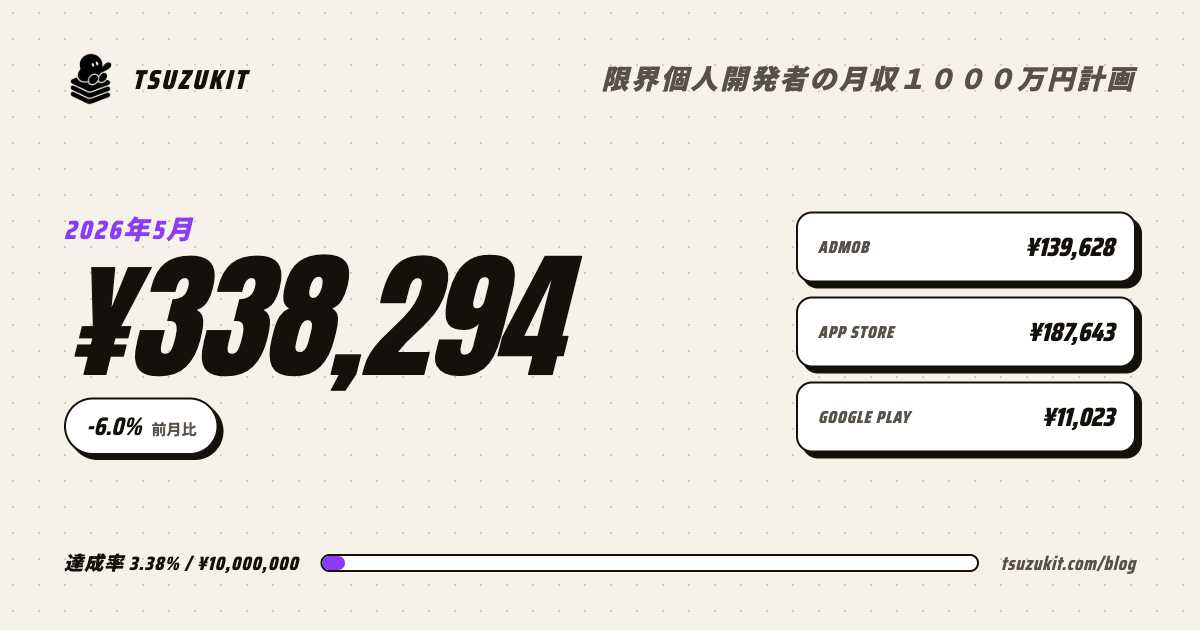
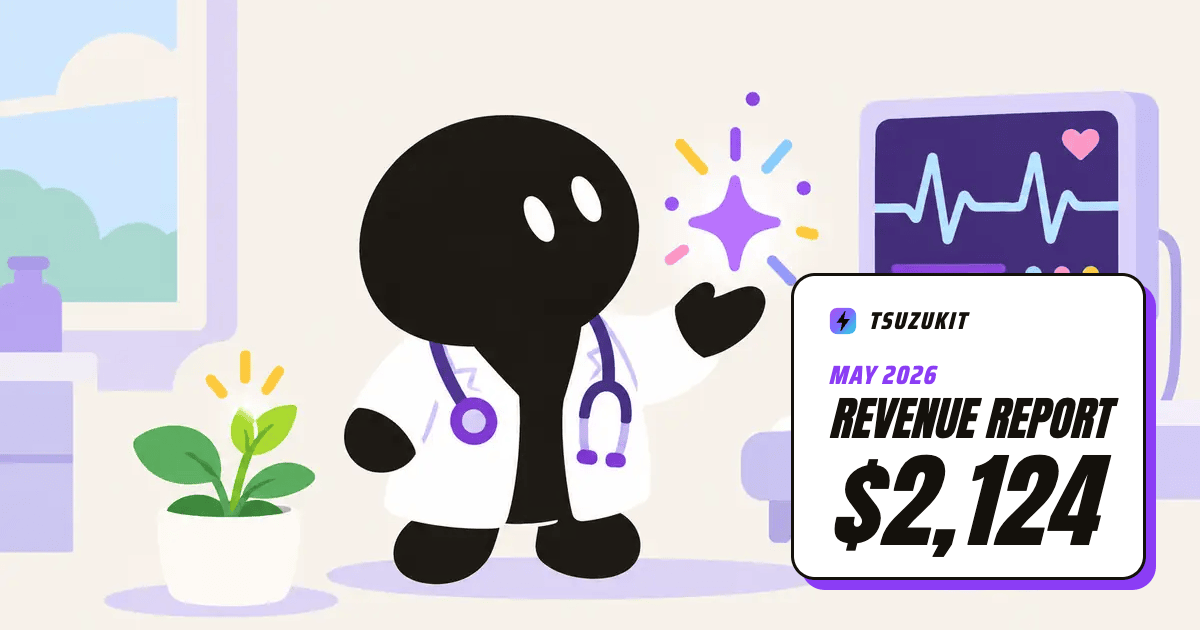
feat(blog): 収益公開のOGPをイラスト＋英語の号名＋ドルにした
- 各号のOGPを、その号のイラストを背景に「◯◯ 2026 Revenue Report」「TsuzuKit」「$合計」だけを載せた画像に作り直した（docs/income-report/ogp-illust.html）
- 前史編にも専用のOGPを付けた
- og:image に画像のハッシュを付けて、SNSのキャッシュに古い画像が残らないようにした
- 記事の「詳細データ」に #details のアンカーを付けた
- 月次レポートの手順書のOGPの作り方を書き換えた

diff --git a/docs/income-report/ogp-illust.html b/docs/income-report/ogp-illust.html
@@ -1,0 +1,56 @@
+<!DOCTYPE html>
+<html lang="en">
+<head>
+<meta charset="UTF-8">
+<title>OGP generator - Revenue Report</title>
+<!--
+  収益公開の各号のOGP画像（1200x630）。背景はその号のイラスト、上に載せるのは英語の号名・TsuzuKit・ドルの合計だけ。
+  OGPは言語で出し分けられないので、日英どちらのタイムラインでも読める英語と$にしている（2026-10-17 ユーザー指定）。
+  作り方は .claude/skills/monthly-income-report/SKILL.md の「OGP画像」。
+
+  パラメータ
+    bg      背景のイラスト（例: /assets/images/posts/income-report-2026-09.webp）
+    label   上の小さい行（例: September 2026）
+    title   号名（例: Revenue Report）
+    amount  ドルの合計（例: $2,958）
+    pos     札を置く角。bl（左下・既定）/ br（右下）/ tl（左上）/ tr（右上）。キャラに重ならない角を選ぶ
+-->
+<link rel="stylesheet" href="https://fonts.googleapis.com/css2?family=Anton&family=Saira+Condensed:wght@600;700;800&display=swap">
+<style>
+  :root { --ink: #14110c; --purple: #8b3df5; --cream: #f6f2ea; }
+  * { margin: 0; padding: 0; box-sizing: border-box; }
+  html, body { width: 1200px; height: 630px; overflow: hidden; background: var(--cream); }
+  .bg { position: absolute; inset: 0; width: 1200px; height: 630px; object-fit: cover; }
+  .card {
+    position: absolute; background: #fff; color: var(--ink);
+    border: 3px solid var(--ink); border-radius: 24px; box-shadow: 10px 10px 0 var(--purple);
+    padding: 26px 34px 24px;
+  }
+  .bl { left: 44px; bottom: 50px; } .br { right: 54px; bottom: 50px; }
+  .tl { left: 44px; top: 40px; } .tr { right: 54px; top: 40px; }
+  .brand { display: flex; align-items: center; gap: 10px; }
+  .brand img { width: 30px; height: 30px; }
+  .brand span { font-family: 'Saira Condensed', sans-serif; font-style: italic; font-weight: 800; font-size: 24px; letter-spacing: 0.08em; }
+  .label { margin-top: 14px; font-family: 'Saira Condensed', sans-serif; font-style: italic; font-weight: 800; font-size: 26px; letter-spacing: 0.06em; color: var(--purple); text-transform: uppercase; }
+  .title { font-family: 'Anton', sans-serif; font-style: italic; font-size: 46px; line-height: 1.05; text-transform: uppercase; }
+  .amount { margin-top: 6px; font-family: 'Anton', sans-serif; font-style: italic; font-size: 104px; line-height: 1; letter-spacing: 0.01em; }
+</style>
+</head>
+<body>
+<img class="bg" id="bg" alt="">
+<div class="card" id="card">
+  <div class="brand"><img src="/assets/images/logo.svg" alt=""><span>TSUZUKIT</span></div>
+  <div class="label" id="label"></div>
+  <div class="title" id="title"></div>
+  <div class="amount" id="amount"></div>
+</div>
+<script>
+  const q = new URLSearchParams(location.search);
+  document.getElementById('bg').src = q.get('bg') || '';
+  document.getElementById('label').textContent = q.get('label') || '';
+  document.getElementById('title').textContent = q.get('title') || 'Revenue Report';
+  document.getElementById('amount').textContent = q.get('amount') || '';
+  document.getElementById('card').classList.add(q.get('pos') || 'bl');
+</script>
+</body>
+</html>

diff --git a/blog/posts/income-report-2026-08.html b/blog/posts/income-report-2026-08.html
@@ -15,14 +15,14 @@
     <meta property="og:description" content="2026年8月の収益は494,888円。7月に売上ゼロだったあなたレシートが9万円を超え、うんちくんの新規ダウンロードは3割減った。">
     <meta property="og:type" content="article">
     <meta property="og:url" content="https://tsuzukit.com/blog/posts/income-report-2026-08.html">
-    <meta property="og:image" content="https://tsuzukit.com/assets/images/ogp/income-report-2026-08.png">
+    <meta property="og:image" content="https://tsuzukit.com/assets/images/ogp/income-report-2026-08.png?v=f8a50cf8">
 
     <meta name="twitter:card" content="summary_large_image">
     <meta name="twitter:site" content="@tsuzuki817">
     <meta name="twitter:creator" content="@tsuzuki817">
     <meta name="twitter:title" content="2026年8月 収益公開">
     <meta name="twitter:description" content="2026年8月の収益は494,888円。7月に売上ゼロだったあなたレシートが9万円を超え、うんちくんの新規ダウンロードは3割減った。">
-    <meta name="twitter:image" content="https://tsuzukit.com/assets/images/ogp/income-report-2026-08.png">
+    <meta name="twitter:image" content="https://tsuzukit.com/assets/images/ogp/income-report-2026-08.png?v=f8a50cf8">
 
     <!-- Favicon -->
     <link rel="icon" type="image/x-icon" href="/favicon.ico">
@@ -60,6 +60,7 @@
             margin: var(--spacing-2xl) 0;
         }
         .post-title { word-break: keep-all; overflow-wrap: anywhere; }
+        #details { scroll-margin-top: 90px; }
         .post-illustration { max-width: 760px; margin: 0 auto var(--space-xl, 48px); padding: 0 16px; }
         .post-illustration img { width: 100%; height: auto; display: block; border: 2px solid var(--color-ink, #14110c); border-radius: 20px; }
         .nowrap-title { white-space: nowrap; }
@@ -236,7 +237,7 @@
             <p><span class="i18n-ja">出した月の数字では、当たりかどうか分からない。9月も出しながら、先月の7本を触ります。</span><span class="i18n-en">The numbers from the month an app ships don't tell you whether it's a hit. In September I'll keep shipping while working on last month's seven.</span></p>
             <p><span class="i18n-ja">それでは、また来月の報告で。</span><span class="i18n-en">See you in next month's report.</span></p>
 
-<h1><span class="i18n-ja">詳細データ</span><span class="i18n-en">Detailed data</span></h1>
+<h1 id="details"><span class="i18n-ja">詳細データ</span><span class="i18n-en">Detailed data</span></h1>
 
             <p><span class="i18n-ja">アプリごとの内訳です。0円だったものは省いています。</span><span class="i18n-en">Here's the breakdown by app. Anything that made $0 is left out.</span></p>
 

diff --git a/blog/posts/income-report-2026-09.html b/blog/posts/income-report-2026-09.html
@@ -15,14 +15,14 @@
     <meta property="og:description" content="2026年9月の収益は464,476円で、前月から6.1%減った。旅行思い出マップの課金は2か月続けて自己最高を更新し、広告収益は2割近く落ちた。">
     <meta property="og:type" content="article">
     <meta property="og:url" content="https://tsuzukit.com/blog/posts/income-report-2026-09.html">
-    <meta property="og:image" content="https://tsuzukit.com/assets/images/ogp/income-report-2026-09.png">
+    <meta property="og:image" content="https://tsuzukit.com/assets/images/ogp/income-report-2026-09.png?v=07b2b8f7">
 
     <meta name="twitter:card" content="summary_large_image">
     <meta name="twitter:site" content="@tsuzuki817">
     <meta name="twitter:creator" content="@tsuzuki817">
     <meta name="twitter:title" content="2026年9月 収益公開">
     <meta name="twitter:description" content="2026年9月の収益は464,476円で、前月から6.1%減った。旅行思い出マップの課金は2か月続けて自己最高を更新し、広告収益は2割近く落ちた。">
-    <meta name="twitter:image" content="https://tsuzukit.com/assets/images/ogp/income-report-2026-09.png">
+    <meta name="twitter:image" content="https://tsuzukit.com/assets/images/ogp/income-report-2026-09.png?v=07b2b8f7">
 
     <!-- Favicon -->
     <link rel="icon" type="image/x-icon" href="/favicon.ico">
@@ -60,6 +60,7 @@
             margin: var(--spacing-2xl) 0;
         }
         .post-title { word-break: keep-all; overflow-wrap: anywhere; }
+        #details { scroll-margin-top: 90px; }
         .post-illustration { max-width: 760px; margin: 0 auto var(--space-xl, 48px); padding: 0 16px; }
         .post-illustration img { width: 100%; height: auto; display: block; border: 2px solid var(--color-ink, #14110c); border-radius: 20px; }
         .nowrap-title { white-space: nowrap; }
@@ -240,7 +241,7 @@
             <p><span class="i18n-ja">柱の2本は課金が増え、広告が落ちた月でした。10月はTikTokで入口を増やしにいきます。</span><span class="i18n-en">A month where my two pillars grew purchases and lost ad revenue. In October I'm going to open more doors with TikTok.</span></p>
             <p><span class="i18n-ja">それでは、また来月の報告で。</span><span class="i18n-en">See you in next month's report.</span></p>
 
-<h1><span class="i18n-ja">詳細データ</span><span class="i18n-en">Detailed data</span></h1>
+<h1 id="details"><span class="i18n-ja">詳細データ</span><span class="i18n-en">Detailed data</span></h1>
 
             <p><span class="i18n-ja">アプリごとの内訳です。0円だったものは省いています。</span><span class="i18n-en">Here's the breakdown by app. Anything that made $0 is left out.</span></p>
 

diff --git a/blog/posts/income-report-2025-11.html b/blog/posts/income-report-2025-11.html
@@ -15,14 +15,14 @@
     <meta property="og:description" content="月収1000万円を目指す個人開発者の収益公開シリーズ、その創刊号。2025年11月の収益は38,050円。AdMobとApp Storeの内訳を眺めて、次の一手を決める。">
     <meta property="og:type" content="article">
     <meta property="og:url" content="https://tsuzukit.com/blog/posts/income-report-2025-11.html">
-    <meta property="og:image" content="https://tsuzukit.com/assets/images/ogp/income-report-2025-11.png">
+    <meta property="og:image" content="https://tsuzukit.com/assets/images/ogp/income-report-2025-11.png?v=e36f805c">
 
     <meta name="twitter:card" content="summary_large_image">
     <meta name="twitter:site" content="@tsuzuki817">
     <meta name="twitter:creator" content="@tsuzuki817">
     <meta name="twitter:title" content="2025年11月 収益公開">
     <meta name="twitter:description" content="月収1000万円を目指す個人開発者の収益公開シリーズ、その創刊号。2025年11月の収益は38,050円。AdMobとApp Storeの内訳を眺めて、次の一手を決める。">
-    <meta name="twitter:image" content="https://tsuzukit.com/assets/images/ogp/income-report-2025-11.png">
+    <meta name="twitter:image" content="https://tsuzukit.com/assets/images/ogp/income-report-2025-11.png?v=e36f805c">
 
     <!-- Favicon -->
     <link rel="icon" type="image/x-icon" href="/favicon.ico">
@@ -60,6 +60,7 @@
             margin: var(--spacing-2xl) 0;
         }
         .post-title { word-break: keep-all; overflow-wrap: anywhere; }
+        #details { scroll-margin-top: 90px; }
         .post-illustration { max-width: 760px; margin: 0 auto var(--space-xl, 48px); padding: 0 16px; }
         .post-illustration img { width: 100%; height: auto; display: block; border: 2px solid var(--color-ink, #14110c); border-radius: 20px; }
         .nowrap-title { white-space: nowrap; }

diff --git a/blog/posts/income-report-2026-04.html b/blog/posts/income-report-2026-04.html
@@ -15,14 +15,14 @@
     <meta property="og:description" content="2026年4月の収益は359,991円。バズの反動で減ったが、うんちくんが月17万円の柱に育った。花火とストックの違いがはっきり見えた月。">
     <meta property="og:type" content="article">
     <meta property="og:url" content="https://tsuzukit.com/blog/posts/income-report-2026-04.html">
-    <meta property="og:image" content="https://tsuzukit.com/assets/images/ogp/income-report-2026-04.png">
+    <meta property="og:image" content="https://tsuzukit.com/assets/images/ogp/income-report-2026-04.png?v=a0b217b6">
 
     <meta name="twitter:card" content="summary_large_image">
     <meta name="twitter:site" content="@tsuzuki817">
     <meta name="twitter:creator" content="@tsuzuki817">
     <meta name="twitter:title" content="2026年4月 収益公開">
     <meta name="twitter:description" content="2026年4月の収益は359,991円。バズの反動で減ったが、うんちくんが月17万円の柱に育った。花火とストックの違いがはっきり見えた月。">
-    <meta name="twitter:image" content="https://tsuzukit.com/assets/images/ogp/income-report-2026-04.png">
+    <meta name="twitter:image" content="https://tsuzukit.com/assets/images/ogp/income-report-2026-04.png?v=a0b217b6">
 
     <!-- Favicon -->
     <link rel="icon" type="image/x-icon" href="/favicon.ico">
@@ -60,6 +60,7 @@
             margin: var(--spacing-2xl) 0;
         }
         .post-title { word-break: keep-all; overflow-wrap: anywhere; }
+        #details { scroll-margin-top: 90px; }
         .post-illustration { max-width: 760px; margin: 0 auto var(--space-xl, 48px); padding: 0 16px; }
         .post-illustration img { width: 100%; height: auto; display: block; border: 2px solid var(--color-ink, #14110c); border-radius: 20px; }
         .nowrap-title { white-space: nowrap; }

diff --git a/blog/posts/income-report-2026-02.html b/blog/posts/income-report-2026-02.html
@@ -15,14 +15,14 @@
     <meta property="og:description" content="2026年2月の収益は215,002円で前月の2.3倍。うんちくんが月2万ダウンロード近くまで跳ね、年額ワンタイムオファーが54件刺さった。">
     <meta property="og:type" content="article">
     <meta property="og:url" content="https://tsuzukit.com/blog/posts/income-report-2026-02.html">
-    <meta property="og:image" content="https://tsuzukit.com/assets/images/ogp/income-report-2026-02.png">
+    <meta property="og:image" content="https://tsuzukit.com/assets/images/ogp/income-report-2026-02.png?v=b8d2dbdc">
 
     <meta name="twitter:card" content="summary_large_image">
     <meta name="twitter:site" content="@tsuzuki817">
     <meta name="twitter:creator" content="@tsuzuki817">
     <meta name="twitter:title" content="2026年2月 収益公開">
     <meta name="twitter:description" content="2026年2月の収益は215,002円で前月の2.3倍。うんちくんが月2万ダウンロード近くまで跳ね、年額ワンタイムオファーが54件刺さった。">
-    <meta name="twitter:image" content="https://tsuzukit.com/assets/images/ogp/income-report-2026-02.png">
+    <meta name="twitter:image" content="https://tsuzukit.com/assets/images/ogp/income-report-2026-02.png?v=b8d2dbdc">
 
     <!-- Favicon -->
     <link rel="icon" type="image/x-icon" href="/favicon.ico">
@@ -60,6 +60,7 @@
             margin: var(--spacing-2xl) 0;
         }
         .post-title { word-break: keep-all; overflow-wrap: anywhere; }
+        #details { scroll-margin-top: 90px; }
         .post-illustration { max-width: 760px; margin: 0 auto var(--space-xl, 48px); padding: 0 16px; }
         .post-illustration img { width: 100%; height: auto; display: block; border: 2px solid var(--color-ink, #14110c); border-radius: 20px; }
         .nowrap-title { white-space: nowrap; }

diff --git a/blog/posts/income-report-2025-12.html b/blog/posts/income-report-2025-12.html
@@ -15,14 +15,14 @@
     <meta property="og:description" content="2025年12月の収益は81,754円で前月から2倍あまり。旅行思い出マップが年末需要でダウンロード4倍、サブスクが素直についてきた。">
     <meta property="og:type" content="article">
     <meta property="og:url" content="https://tsuzukit.com/blog/posts/income-report-2025-12.html">
-    <meta property="og:image" content="https://tsuzukit.com/assets/images/ogp/income-report-2025-12.png">
+    <meta property="og:image" content="https://tsuzukit.com/assets/images/ogp/income-report-2025-12.png?v=b7221402">
 
     <meta name="twitter:card" content="summary_large_image">
     <meta name="twitter:site" content="@tsuzuki817">
     <meta name="twitter:creator" content="@tsuzuki817">
     <meta name="twitter:title" content="2025年12月 収益公開">
     <meta name="twitter:description" content="2025年12月の収益は81,754円で前月から2倍あまり。旅行思い出マップが年末需要でダウンロード4倍、サブスクが素直についてきた。">
-    <meta name="twitter:image" content="https://tsuzukit.com/assets/images/ogp/income-report-2025-12.png">
+    <meta name="twitter:image" content="https://tsuzukit.com/assets/images/ogp/income-report-2025-12.png?v=b7221402">
 
     <!-- Favicon -->
     <link rel="icon" type="image/x-icon" href="/favicon.ico">
@@ -60,6 +60,7 @@
             margin: var(--spacing-2xl) 0;
         }
         .post-title { word-break: keep-all; overflow-wrap: anywhere; }
+        #details { scroll-margin-top: 90px; }
         .post-illustration { max-width: 760px; margin: 0 auto var(--space-xl, 48px); padding: 0 16px; }
         .post-illustration img { width: 100%; height: auto; display: block; border: 2px solid var(--color-ink, #14110c); border-radius: 20px; }
         .nowrap-title { white-space: nowrap; }

diff --git a/blog/posts/income-report-2026-07.html b/blog/posts/income-report-2026-07.html
@@ -15,14 +15,14 @@
     <meta property="og:description" content="2026年7月の収益は372,319円。新規ダウンロードは横ばいのまま広告だけが伸び、新しく出した5本の売上はゼロだった。">
     <meta property="og:type" content="article">
     <meta property="og:url" content="https://tsuzukit.com/blog/posts/income-report-2026-07.html">
-    <meta property="og:image" content="https://tsuzukit.com/assets/images/ogp/income-report-2026-07.png">
+    <meta property="og:image" content="https://tsuzukit.com/assets/images/ogp/income-report-2026-07.png?v=0af381cb">
 
     <meta name="twitter:card" content="summary_large_image">
     <meta name="twitter:site" content="@tsuzuki817">
     <meta name="twitter:creator" content="@tsuzuki817">
     <meta name="twitter:title" content="2026年7月 収益公開">
     <meta name="twitter:description" content="2026年7月の収益は372,319円。新規ダウンロードは横ばいのまま広告だけが伸び、新しく出した5本の売上はゼロだった。">
-    <meta name="twitter:image" content="https://tsuzukit.com/assets/images/ogp/income-report-2026-07.png">
+    <meta name="twitter:image" content="https://tsuzukit.com/assets/images/ogp/income-report-2026-07.png?v=0af381cb">
 
     <!-- Favicon -->
     <link rel="icon" type="image/x-icon" href="/favicon.ico">
@@ -60,6 +60,7 @@
             margin: var(--spacing-2xl) 0;
         }
         .post-title { word-break: keep-all; overflow-wrap: anywhere; }
+        #details { scroll-margin-top: 90px; }
         .post-illustration { max-width: 760px; margin: 0 auto var(--space-xl, 48px); padding: 0 16px; }
         .post-illustration img { width: 100%; height: auto; display: block; border: 2px solid var(--color-ink, #14110c); border-radius: 20px; }
         .nowrap-title { white-space: nowrap; }

diff --git a/blog/posts/income-report-2026-03.html b/blog/posts/income-report-2026-03.html
@@ -15,14 +15,14 @@
     <meta property="og:description" content="2026年3月、月収100万円を突破した。1,050,092円の内訳と、推しアイランドの買い切りプランが217本売れた顛末。">
     <meta property="og:type" content="article">
     <meta property="og:url" content="https://tsuzukit.com/blog/posts/income-report-2026-03.html">
-    <meta property="og:image" content="https://tsuzukit.com/assets/images/ogp/income-report-2026-03.png">
+    <meta property="og:image" content="https://tsuzukit.com/assets/images/ogp/income-report-2026-03.png?v=90df0c10">
 
     <meta name="twitter:card" content="summary_large_image">
     <meta name="twitter:site" content="@tsuzuki817">
     <meta name="twitter:creator" content="@tsuzuki817">
     <meta name="twitter:title" content="2026年3月 収益公開">
     <meta name="twitter:description" content="2026年3月、月収100万円を突破した。1,050,092円の内訳と、推しアイランドの買い切りプランが217本売れた顛末。">
-    <meta name="twitter:image" content="https://tsuzukit.com/assets/images/ogp/income-report-2026-03.png">
+    <meta name="twitter:image" content="https://tsuzukit.com/assets/images/ogp/income-report-2026-03.png?v=90df0c10">
 
     <!-- Favicon -->
     <link rel="icon" type="image/x-icon" href="/favicon.ico">
@@ -60,6 +60,7 @@
             margin: var(--spacing-2xl) 0;
         }
         .post-title { word-break: keep-all; overflow-wrap: anywhere; }
+        #details { scroll-margin-top: 90px; }
         .post-illustration { max-width: 760px; margin: 0 auto var(--space-xl, 48px); padding: 0 16px; }
         .post-illustration img { width: 100%; height: auto; display: block; border: 2px solid var(--color-ink, #14110c); border-radius: 20px; }
         .nowrap-title { white-space: nowrap; }

diff --git a/blog/posts/income-report-2026-06.html b/blog/posts/income-report-2026-06.html
@@ -15,14 +15,14 @@
     <meta property="og:description" content="2026年6月の収益は341,961円。うんちくんは月3万ダウンロード超え。上半期の合計240万円もあわせて振り返る。">
     <meta property="og:type" content="article">
     <meta property="og:url" content="https://tsuzukit.com/blog/posts/income-report-2026-06.html">
-    <meta property="og:image" content="https://tsuzukit.com/assets/images/ogp/income-report-2026-06.png">
+    <meta property="og:image" content="https://tsuzukit.com/assets/images/ogp/income-report-2026-06.png?v=82563b62">
 
     <meta name="twitter:card" content="summary_large_image">
     <meta name="twitter:site" content="@tsuzuki817">
     <meta name="twitter:creator" content="@tsuzuki817">
     <meta name="twitter:title" content="2026年6月 収益公開">
     <meta name="twitter:description" content="2026年6月の収益は341,961円。うんちくんは月3万ダウンロード超え。上半期の合計240万円もあわせて振り返る。">
-    <meta name="twitter:image" content="https://tsuzukit.com/assets/images/ogp/income-report-2026-06.png">
+    <meta name="twitter:image" content="https://tsuzukit.com/assets/images/ogp/income-report-2026-06.png?v=82563b62">
 
     <!-- Favicon -->
     <link rel="icon" type="image/x-icon" href="/favicon.ico">
@@ -60,6 +60,7 @@
             margin: var(--spacing-2xl) 0;
         }
         .post-title { word-break: keep-all; overflow-wrap: anywhere; }
+        #details { scroll-margin-top: 90px; }
         .post-illustration { max-width: 760px; margin: 0 auto var(--space-xl, 48px); padding: 0 16px; }
         .post-illustration img { width: 100%; height: auto; display: block; border: 2px solid var(--color-ink, #14110c); border-radius: 20px; }
         .nowrap-title { white-space: nowrap; }

diff --git a/blog/posts/income-report-2026-01.html b/blog/posts/income-report-2026-01.html
@@ -15,14 +15,14 @@
     <meta property="og:description" content="2026年1月の収益は94,209円。Google Playで初めての売上102円が立ち、英語圏では買い切りプランが動き出した。">
     <meta property="og:type" content="article">
     <meta property="og:url" content="https://tsuzukit.com/blog/posts/income-report-2026-01.html">
-    <meta property="og:image" content="https://tsuzukit.com/assets/images/ogp/income-report-2026-01.png">
+    <meta property="og:image" content="https://tsuzukit.com/assets/images/ogp/income-report-2026-01.png?v=af1d5f45">
 
     <meta name="twitter:card" content="summary_large_image">
     <meta name="twitter:site" content="@tsuzuki817">
     <meta name="twitter:creator" content="@tsuzuki817">
     <meta name="twitter:title" content="2026年1月 収益公開">
     <meta name="twitter:description" content="2026年1月の収益は94,209円。Google Playで初めての売上102円が立ち、英語圏では買い切りプランが動き出した。">
-    <meta name="twitter:image" content="https://tsuzukit.com/assets/images/ogp/income-report-2026-01.png">
+    <meta name="twitter:image" content="https://tsuzukit.com/assets/images/ogp/income-report-2026-01.png?v=af1d5f45">
 
     <!-- Favicon -->
     <link rel="icon" type="image/x-icon" href="/favicon.ico">
@@ -60,6 +60,7 @@
             margin: var(--spacing-2xl) 0;
         }
         .post-title { word-break: keep-all; overflow-wrap: anywhere; }
+        #details { scroll-margin-top: 90px; }
         .post-illustration { max-width: 760px; margin: 0 auto var(--space-xl, 48px); padding: 0 16px; }
         .post-illustration img { width: 100%; height: auto; display: block; border: 2px solid var(--color-ink, #14110c); border-radius: 20px; }
         .nowrap-title { white-space: nowrap; }

diff --git a/blog/posts/income-report-2026-05.html b/blog/posts/income-report-2026-05.html
@@ -15,14 +15,14 @@
     <meta property="og:description" content="2026年5月の収益は338,294円。うんちくんがAI健康記録アプリに進化し、Google Playは初めて月1万円を超えた。">
     <meta property="og:type" content="article">
     <meta property="og:url" content="https://tsuzukit.com/blog/posts/income-report-2026-05.html">
-    <meta property="og:image" content="https://tsuzukit.com/assets/images/ogp/income-report-2026-05.png">
+    <meta property="og:image" content="https://tsuzukit.com/assets/images/ogp/income-report-2026-05.png?v=f502d889">
 
     <meta name="twitter:card" content="summary_large_image">
     <meta name="twitter:site" content="@tsuzuki817">
     <meta name="twitter:creator" content="@tsuzuki817">
     <meta name="twitter:title" content="2026年5月 収益公開">
     <meta name="twitter:description" content="2026年5月の収益は338,294円。うんちくんがAI健康記録アプリに進化し、Google Playは初めて月1万円を超えた。">
-    <meta name="twitter:image" content="https://tsuzukit.com/assets/images/ogp/income-report-2026-05.png">
+    <meta name="twitter:image" content="https://tsuzukit.com/assets/images/ogp/income-report-2026-05.png?v=f502d889">
 
     <!-- Favicon -->
     <link rel="icon" type="image/x-icon" href="/favicon.ico">
@@ -60,6 +60,7 @@
             margin: var(--spacing-2xl) 0;
         }
         .post-title { word-break: keep-all; overflow-wrap: anywhere; }
+        #details { scroll-margin-top: 90px; }
         .post-illustration { max-width: 760px; margin: 0 auto var(--space-xl, 48px); padding: 0 16px; }
         .post-illustration img { width: 100%; height: auto; display: block; border: 2px solid var(--color-ink, #14110c); border-radius: 20px; }
         .nowrap-title { white-space: nowrap; }
